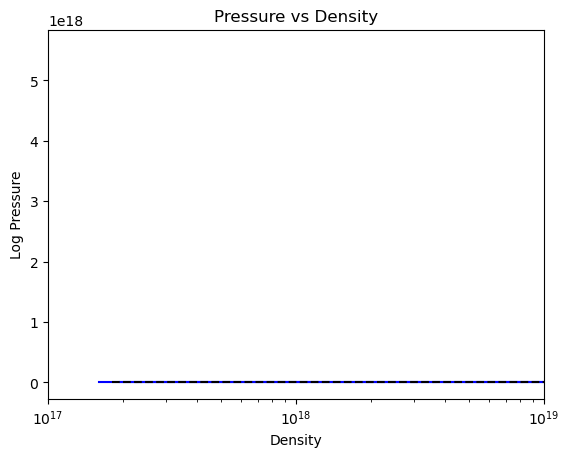
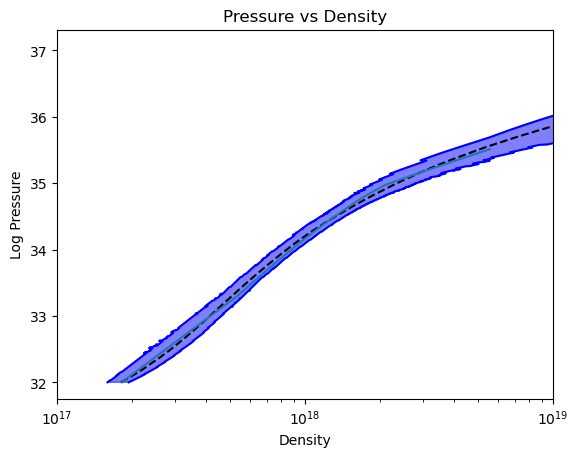
LIGO plot save11.

diff --git a/GWXtreme_merger/LIGO_presentation/necessary_code.py b/GWXtreme_merger/LIGO_presentation/necessary_code.py
@@ -350,7 +350,7 @@ class p_rho_EoS:
                         pressure_grid.append(lp)
                     except RuntimeError: continue
 
-                pl.plot(pressure_grid, density_grid)
+                pl.plot(density_grid,pressure_grid)
 
             pl.xlim([10**17, 10**19])
             pl.xlabel("Density")
